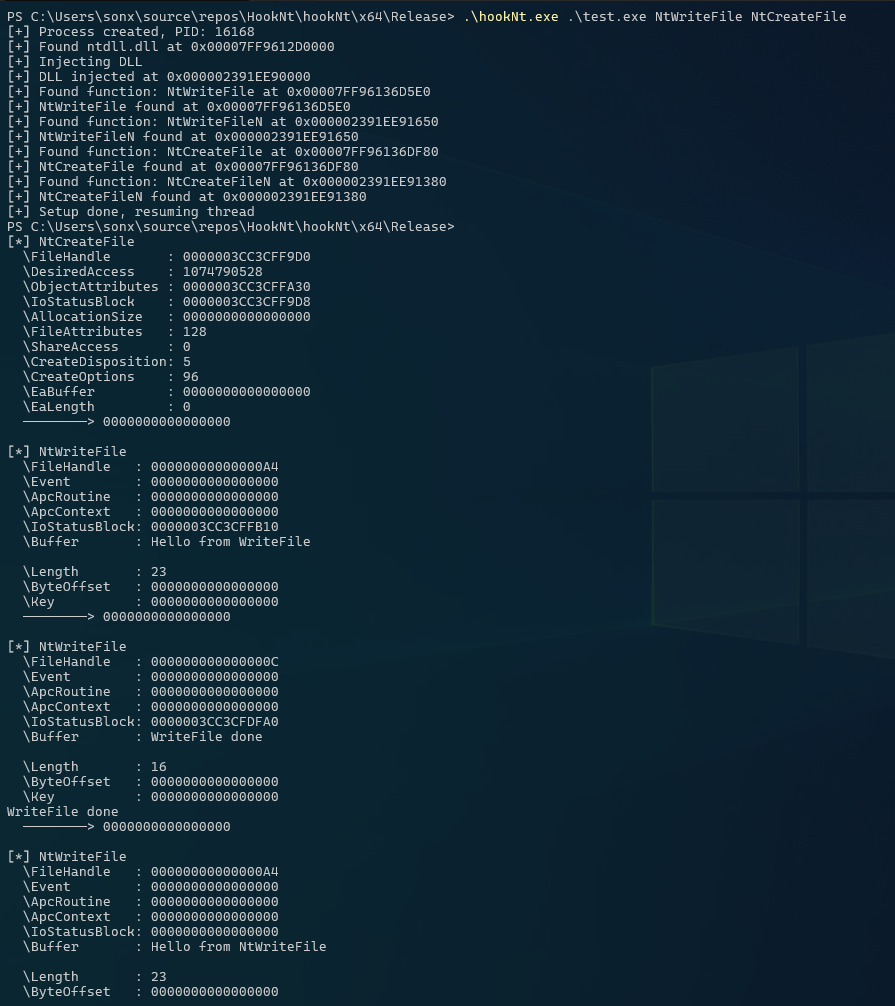
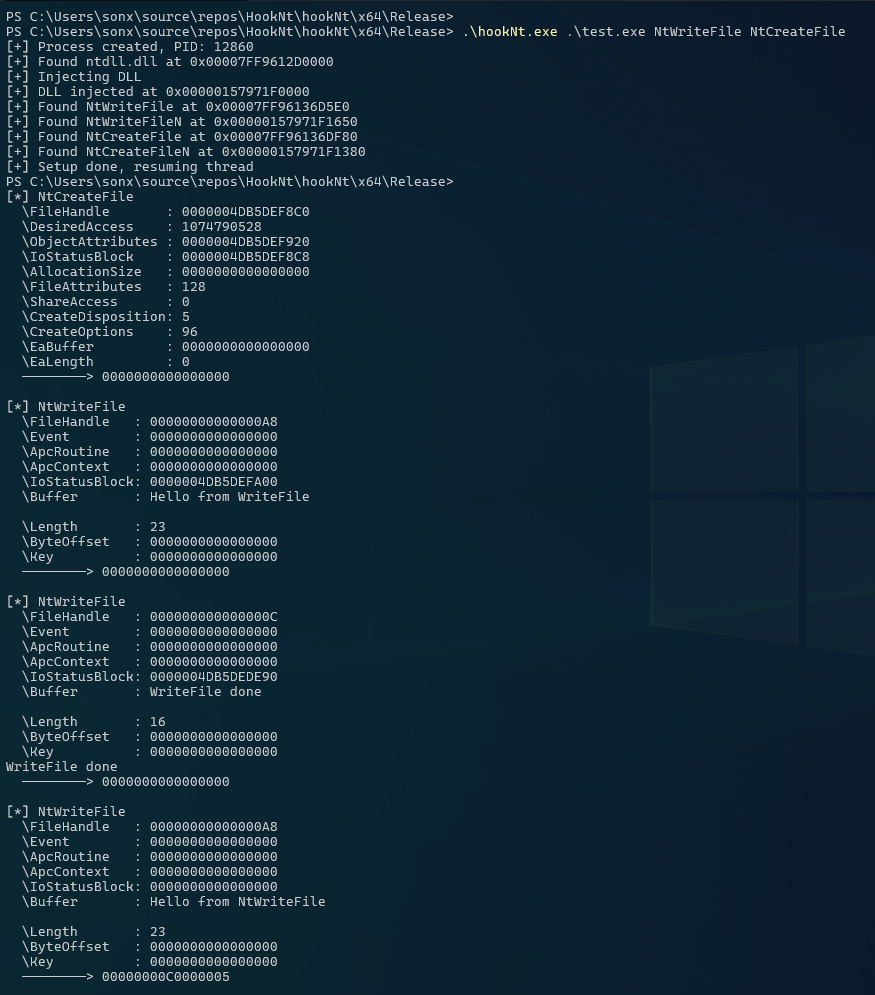
update readme

Changed region(s): [[0.0, 0.0, 0.9566, 0.997]]

diff --git a/hookNt/hookNt/hookNt.cpp b/hookNt/hookNt/hookNt.cpp
@@ -222,8 +222,6 @@ PVOID GetProcAddressRemoteN(HANDLE hProcess, PBYTE dllBase, const char* function
             DWORD functionRVA = addressOfFunctions[ordinal];
             PVOID procAddress = (PBYTE)dllBase + functionRVA;
 
-            printf("[+] Found function: %s at 0x%p\n", currentFunctionName, procAddress);
-
             // Clean up
             delete[] addressOfFunctions;
             delete[] addressOfNames;
@@ -341,9 +339,9 @@ int main(int argc, char* argv[]) {
                 // Get the address of the original NT function
                 PVOID originalFunction = GetProcAddressRemoteN(hProcess, (PBYTE)ntdllBase, functionName.c_str());
                 if (originalFunction) {
-                    printf("[+] %s found at 0x%p\n", functionName.c_str(), originalFunction);
+                    printf("[+] Found %s at 0x%p\n", functionName.c_str(), originalFunction);
                 } else {
-                    printf("[!] %s not found\n", functionName.c_str());
+                    printf("[!] Not found %s\n", functionName.c_str());
                     continue;
                 }
 
@@ -351,9 +349,9 @@ int main(int argc, char* argv[]) {
                 std::string hookedFunctionName = functionName + "N";
                 PVOID hookedFunction = GetProcAddressRemoteN(hProcess, (PBYTE)ntdllNBase, hookedFunctionName.c_str());
                 if (hookedFunction) {
-                    printf("[+] %s found at 0x%p\n", hookedFunctionName.c_str(), hookedFunction);
+                    printf("[+] Found %s at 0x%p\n", hookedFunctionName.c_str(), hookedFunction);
                 } else {
-                    printf("[!] %s not found\n", hookedFunctionName.c_str());
+                    printf("[!] Not found %s\n", hookedFunctionName.c_str());
                     continue;
                 }
 
